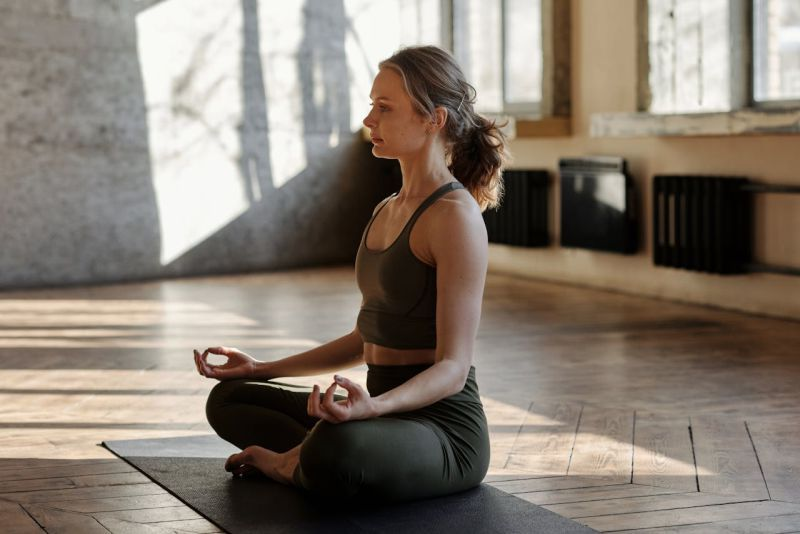
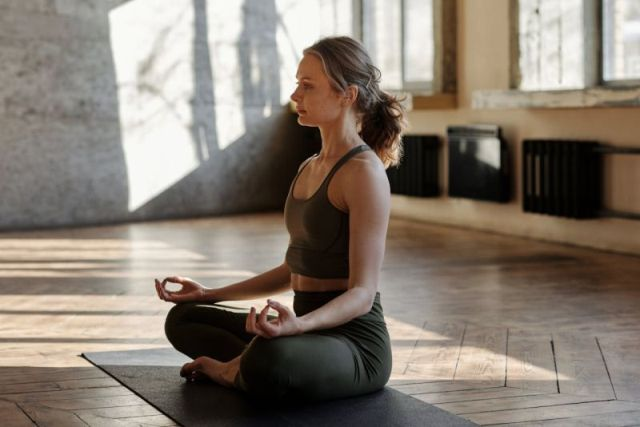
head changed, preloads

diff --git a/kapcsolat.html b/kapcsolat.html
@@ -11,7 +11,6 @@
     <link rel="preconnect" href="https://fonts.googleapis.com">
     <link rel="preconnect" href="https://fonts.gstatic.com" crossorigin>
     <link rel="stylesheet" href="/dist/style.css">
-    <link rel="preload" fetchpriority="high" as="image" href="/images/photos/Mobile_woman-relaxing.jpg" type="image/jpeg">
     <link href="https://fonts.googleapis.com/css2?family=Arizonia&amp;family=Montserrat:wght@100..900&amp;family=Noto+Sans:ital,wght@0,100..900;1,100..900&amp;display=swap" rel="stylesheet">
     <link rel="icon" type="image/x-icon" href="/images/icons/favicon.ico">
   </head>
@@ -36,7 +35,7 @@
               <p>1132 Budapest, Kresz Géza utca 39.</p>
             </div>
           </div>
-          <iframe class="contact--map" src="https://www.google.com/maps/embed?pb=!1m18!1m12!1m3!1d2694.675782694065!2d19.055509676859224!3d47.51570497118151!2m3!1f0!2f0!3f0!3m2!1i1024!2i768!4f13.1!3m3!1m2!1s0x4741dc0bb2dae7dd%3A0x74d5b9b2d3aa120!2sBudapest%2C%20Kresz%20G%C3%A9za%20u%2039%2C%201132!5e0!3m2!1shu!2shu!4v1715874299601!5m2!1shu!2shu" allowfullscreen="" loading="lazy" referrerpolicy="no-referrer-when-downgrade"></iframe>
+          <iframe class="contact--map" src="https://www.google.com/maps/embed?pb=!1m18!1m12!1m3!1d2694.675782694065!2d19.055509676859224!3d47.51570497118151!2m3!1f0!2f0!3f0!3m2!1i1024!2i768!4f13.1!3m3!1m2!1s0x4741dc0bb2dae7dd%3A0x74d5b9b2d3aa120!2sBudapest%2C%20Kresz%20G%C3%A9za%20u%2039%2C%201132!5e0!3m2!1shu!2shu!4v1715874299601!5m2!1shu!2shu" allowfullscreen="" referrerpolicy="no-referrer-when-downgrade"></iframe>
         </div>
         <div class="article__contacts"> 
           <h2 class="title title__center article__contacts--title">Árak</h2>

diff --git a/adatvedelem.html b/adatvedelem.html
@@ -10,7 +10,6 @@
     <link rel="preconnect" href="https://fonts.googleapis.com">
     <link rel="preconnect" href="https://fonts.gstatic.com" crossorigin>
     <link rel="stylesheet" href="/dist/style.css">
-    <link rel="preload" fetchpriority="high" as="image" href="/images/photos/Mobile_woman-relaxing.jpg" type="image/jpeg">
     <link href="https://fonts.googleapis.com/css2?family=Arizonia&amp;family=Montserrat:wght@100..900&amp;family=Noto+Sans:ital,wght@0,100..900;1,100..900&amp;display=swap" rel="stylesheet">
     <link rel="icon" type="image/x-icon" href="/images/icons/favicon.ico">
   </head>
@@ -34,8 +33,8 @@
           <div>
             <p><span class="text__bold">Név:</span> Szénási Ágnes EV. </p>
             <p><span class="text__bold">Székhely:</span> 1031 Budapest, Amfiteátrum utca 23.</p>
-            <p><span class="text__bold">Email:</span> agi.szenasi321@gmail.com 
-            <p><span class="text__bold">Telefon:</span>+36 30 285 7034</p>
+            <p><span class="text__bold">Email:</span> agi.szenasi321@gmail.com </p>
+            <p><span class="text__bold">Telefon:</span> +36 30 285 7034</p>
           </div>
           <h2 class="title text__brand">2. Az adatkezelés célja és jogalapja</h2>
           <p>Az adatkezelés célja a Honlap látogatóinak tájékoztatása, valamint a Szolgáltatóval való kapcsolatfelvétel biztosítása.</p>

diff --git a/rolam.html b/rolam.html
@@ -11,7 +11,7 @@
     <link rel="preconnect" href="https://fonts.googleapis.com">
     <link rel="preconnect" href="https://fonts.gstatic.com" crossorigin>
     <link rel="stylesheet" href="/dist/style.css">
-    <link rel="preload" fetchpriority="high" as="image" href="/images/photos/Mobile_woman-relaxing.jpg" type="image/jpeg">
+    <link rel="preload" fetchpriority="high" as="image" href="/images/photos/wide-portrait-example.jpg" type="image/jpeg">
     <link href="https://fonts.googleapis.com/css2?family=Arizonia&amp;family=Montserrat:wght@100..900&amp;family=Noto+Sans:ital,wght@0,100..900;1,100..900&amp;display=swap" rel="stylesheet">
     <link rel="icon" type="image/x-icon" href="/images/icons/favicon.ico">
   </head>

diff --git a/tanacsadas.html b/tanacsadas.html
@@ -11,7 +11,7 @@
     <link rel="preconnect" href="https://fonts.googleapis.com">
     <link rel="preconnect" href="https://fonts.gstatic.com" crossorigin>
     <link rel="stylesheet" href="/dist/style.css">
-    <link rel="preload" fetchpriority="high" as="image" href="/images/photos/Mobile_woman-relaxing.jpg" type="image/jpeg">
+    <link rel="preload" fetchpriority="high" as="image" href="/images/photos/wide-therapy-session.jpg" type="image/jpeg">
     <link href="https://fonts.googleapis.com/css2?family=Arizonia&amp;family=Montserrat:wght@100..900&amp;family=Noto+Sans:ital,wght@0,100..900;1,100..900&amp;display=swap" rel="stylesheet">
     <link rel="icon" type="image/x-icon" href="/images/icons/favicon.ico">
   </head>

diff --git a/autogen.html b/autogen.html
@@ -11,7 +11,7 @@
     <link rel="preconnect" href="https://fonts.googleapis.com">
     <link rel="preconnect" href="https://fonts.gstatic.com" crossorigin>
     <link rel="stylesheet" href="/dist/style.css">
-    <link rel="preload" fetchpriority="high" as="image" href="/images/photos/Mobile_woman-relaxing.jpg" type="image/jpeg">
+    <link rel="preload" fetchpriority="high" as="image" href="/images/photos/wide-meditating.jpg" type="image/jpeg">
     <link href="https://fonts.googleapis.com/css2?family=Arizonia&amp;family=Montserrat:wght@100..900&amp;family=Noto+Sans:ital,wght@0,100..900;1,100..900&amp;display=swap" rel="stylesheet">
     <link rel="icon" type="image/x-icon" href="/images/icons/favicon.ico">
   </head>

diff --git a/index.html b/index.html
@@ -14,7 +14,6 @@
     <link rel="preload" fetchpriority="high" as="image" href="/images/photos/Mobile_woman-relaxing.jpg" type="image/jpeg">
     <link href="https://fonts.googleapis.com/css2?family=Arizonia&amp;family=Montserrat:wght@100..900&amp;family=Noto+Sans:ital,wght@0,100..900;1,100..900&amp;display=swap" rel="stylesheet">
     <link rel="icon" type="image/x-icon" href="/images/icons/favicon.ico">
-    <script src="/dist/App.bundle.js" defer></script>
   </head>
   <body>
     <div class="container"> 
@@ -70,5 +69,6 @@
         <p class="footer--text text__small">© 2024 Copyright Szénási Ágnes</p>
       </footer>
     </div>
+    <script src="/dist/App.bundle.js"></script>
   </body>
 </html>

diff --git a/impresszum.html b/impresszum.html
@@ -10,7 +10,6 @@
     <link rel="preconnect" href="https://fonts.googleapis.com">
     <link rel="preconnect" href="https://fonts.gstatic.com" crossorigin>
     <link rel="stylesheet" href="/dist/style.css">
-    <link rel="preload" fetchpriority="high" as="image" href="/images/photos/Mobile_woman-relaxing.jpg" type="image/jpeg">
     <link href="https://fonts.googleapis.com/css2?family=Arizonia&amp;family=Montserrat:wght@100..900&amp;family=Noto+Sans:ital,wght@0,100..900;1,100..900&amp;display=swap" rel="stylesheet">
     <link rel="icon" type="image/x-icon" href="/images/icons/favicon.ico">
   </head>
